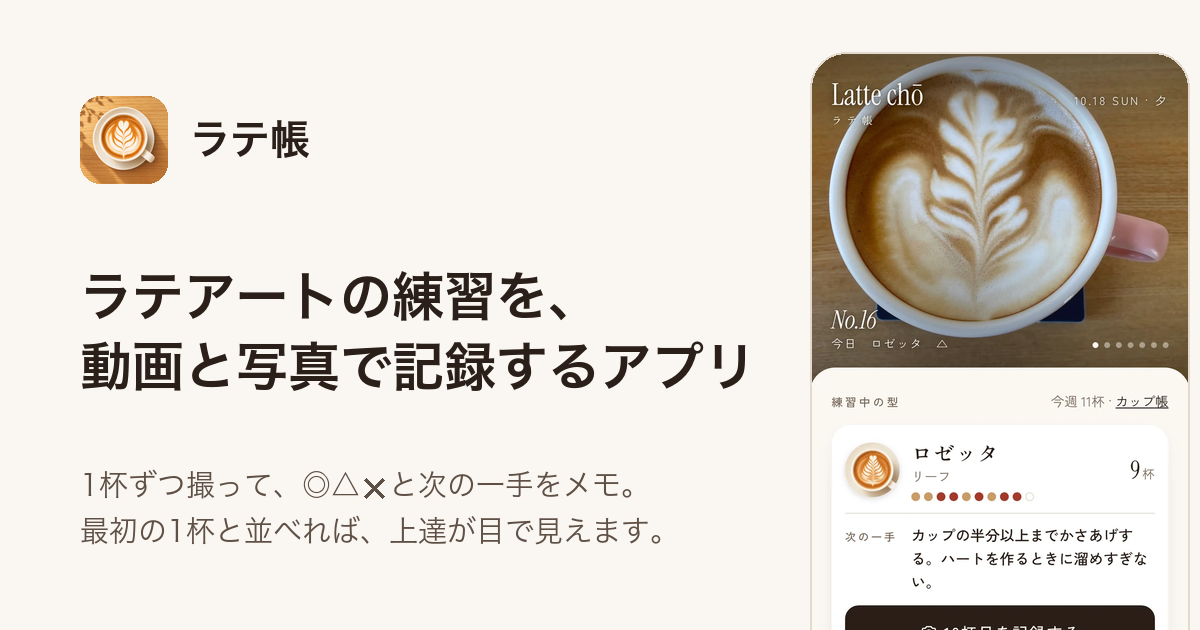
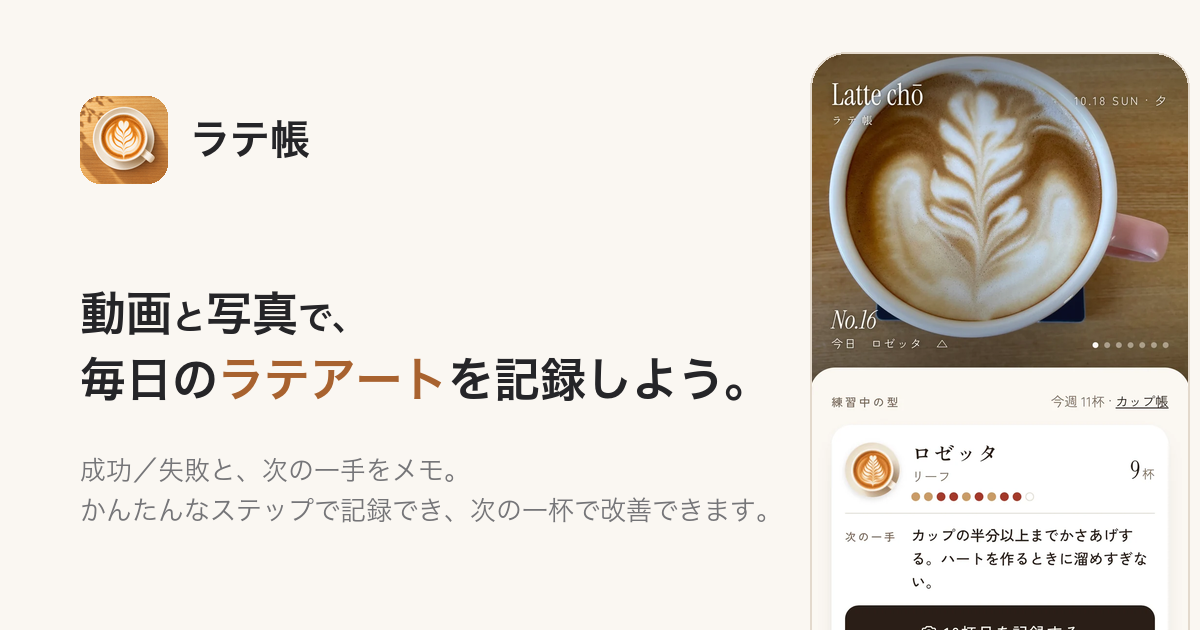
シェア用の画像（og.png）の文言を、新しいキャッチに合わせる
「動画と写真で、毎日のラテアートを記録しよう。」と、補足（成功／失敗と、次の一手をメモ。…）にする。「と」「で、」は小さく、「ラテアート」は茶色で、サイトのキャッチと同じ見た目。
文字色も、サイトの本文色（#252528）と補足（#757578）にそろえる。作り方（make-og.py）の文言と、og:image:alt も直す。

Changed region(s): [[0.0617, 0.4222, 0.6475, 0.6333], [0.0617, 0.7238, 0.6475, 0.8746]]

diff --git a/worker/site/index.html b/worker/site/index.html
@@ -21,7 +21,7 @@
     <meta property="og:image" content="https://latte.makimura.me/og.png" />
     <meta property="og:image:width" content="1200" />
     <meta property="og:image:height" content="630" />
-    <meta property="og:image:alt" content="ラテ帳の「今日」の画面と、キャッチコピー「ラテアートの練習を、動画と写真で記録するアプリ」" />
+    <meta property="og:image:alt" content="ラテ帳の「今日」の画面と、キャッチコピー「動画と写真で、毎日のラテアートを記録しよう。」" />
     <meta name="twitter:card" content="summary_large_image" />
     <meta name="twitter:image" content="https://latte.makimura.me/og.png" />
     <style>

diff --git a/.claude/skills/app-screenshots/make-og.py b/.claude/skills/app-screenshots/make-og.py
@@ -1,15 +1,18 @@
 # シェア用の画像（worker/site/og.png、1200×630）を、紹介サイトの画像から作る。
 # 使い方：python3 -I .claude/skills/app-screenshots/make-og.py worker/site
 # 「今日」の画面（img/today.webp）を使うので、画面写真を撮り直したら、これも作り直す。
-# macOS のヒラギノを使う。✕ は、ヒラギノにも Apple Symbols にも字が無いので、線で描く。
+# macOS のヒラギノを使う。文言は、紹介サイトのキャッチ（index.html の .catch と .sub）と同じにする。変えたら、og:image:alt も直す。
 import sys
 from PIL import Image, ImageDraw, ImageFont
 site = sys.argv[1]
 W, H = 1200, 630
-BG, INK, SUB, LINE = (250, 247, 242), (42, 31, 25), (95, 80, 70), (227, 217, 204)
-bold = ImageFont.truetype('/System/Library/Fonts/ヒラギノ角ゴシック W6.ttc', 52)
+ACCENT = (168, 98, 47)
+BG, INK, SUB, LINE = (250, 247, 242), (37, 37, 40), (117, 117, 120), (227, 217, 204)
+CATCH = 46
+bold = ImageFont.truetype('/System/Library/Fonts/ヒラギノ角ゴシック W6.ttc', CATCH)
+small = ImageFont.truetype('/System/Library/Fonts/ヒラギノ角ゴシック W6.ttc', round(CATCH * 0.75))
 name = ImageFont.truetype('/System/Library/Fonts/ヒラギノ角ゴシック W6.ttc', 40)
-sub = ImageFont.truetype('/System/Library/Fonts/ヒラギノ角ゴシック W3.ttc', 29)
+sub = ImageFont.truetype('/System/Library/Fonts/ヒラギノ角ゴシック W3.ttc', 26)
 img = Image.new('RGB', (W, H), BG)
 d = ImageDraw.Draw(img)
 
@@ -30,18 +33,18 @@ im = Image.new('L', (88, 88), 0)
 ImageDraw.Draw(im).rounded_rectangle((0, 0, 87, 87), radius=20, fill=255)
 img.paste(icon, (80, 96), im)
 d.text((190, 118), 'ラテ帳', font=name, fill=INK)
-d.text((80, 270), 'ラテアートの練習を、', font=bold, fill=INK)
-d.text((80, 340), '動画と写真で記録するアプリ', font=bold, fill=INK)
-x = 80
-for part in ('1杯ずつ撮って、◎△',):
-    d.text((x, 470), part, font=sub, fill=SUB)
-    x += d.textlength(part, font=sub)
-# ✕ は、使うフォントに字が無いので、線で描く
-d.line((x + 5, 479, x + 23, 497), fill=SUB, width=3)
-d.line((x + 23, 479, x + 5, 497), fill=SUB, width=3)
-x += 29
-d.text((x, 470), 'と次の一手をメモ。', font=sub, fill=SUB)
-d.text((80, 516), '最初の1杯と並べれば、上達が目で見えます。', font=sub, fill=SUB)
+
+def line(x, baseline, parts):
+    # 同じ行に、大きさ・色の違う字を並べる（ベースラインをそろえる）
+    for text, font, fill in parts:
+        d.text((x, baseline), text, font=font, fill=fill, anchor='ls')
+        x += d.textlength(text, font=font)
+
+# キャッチ：「と」「で、」は、名詞（動画・写真）より小さく。「ラテアート」は茶色
+line(80, 330, [('動画', bold, INK), ('と', small, INK), ('写真', bold, INK), ('で、', small, INK)])
+line(80, 396, [('毎日の', bold, INK), ('ラテアート', bold, ACCENT), ('を記録しよう。', bold, INK)])
+line(80, 480, [('成功／失敗と、次の一手をメモ。', sub, SUB)])
+line(80, 520, [('かんたんなステップで記録でき、次の一杯で改善できます。', sub, SUB)])
 
 img.save(f'{site}/og.png', optimize=True)
 print(img.size)
